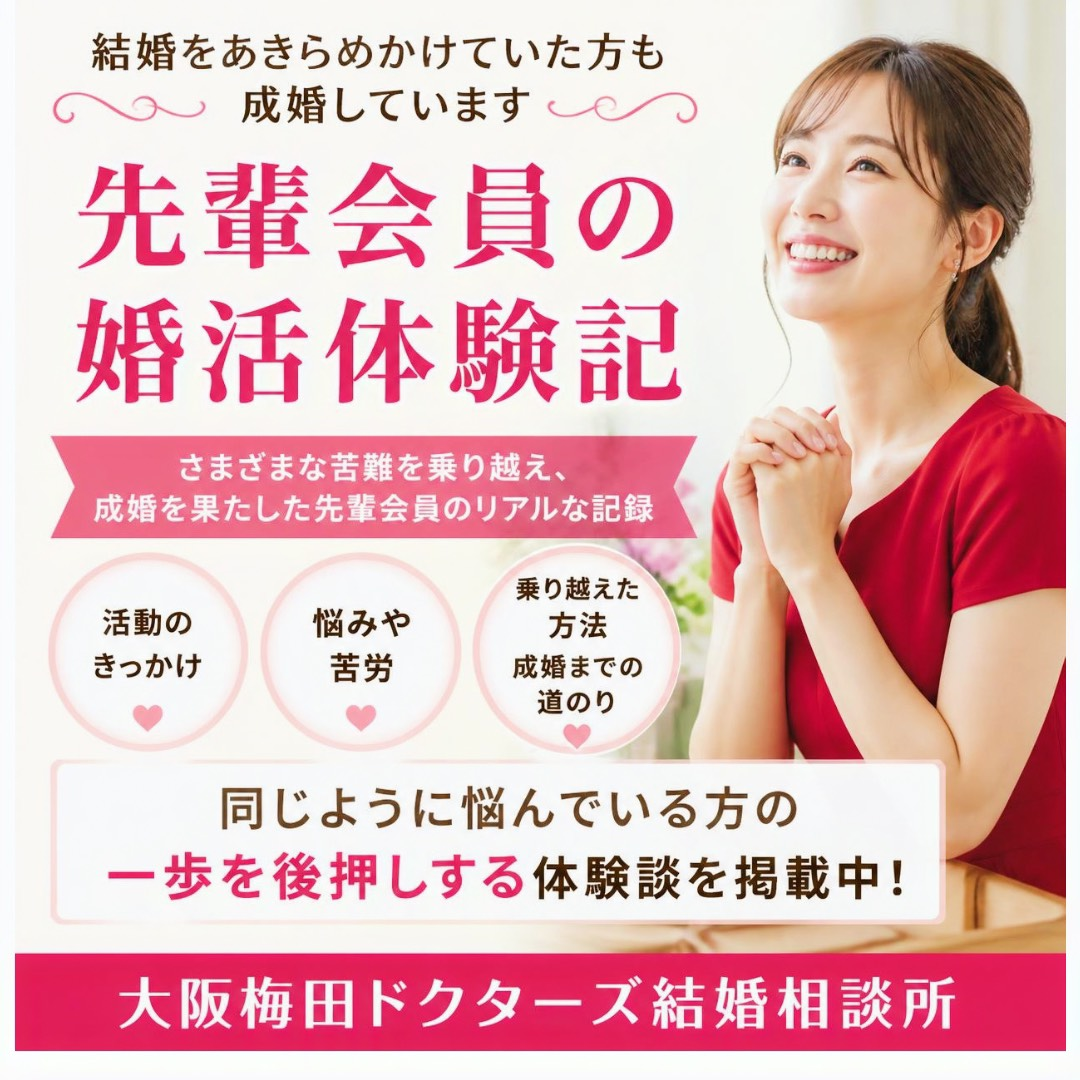
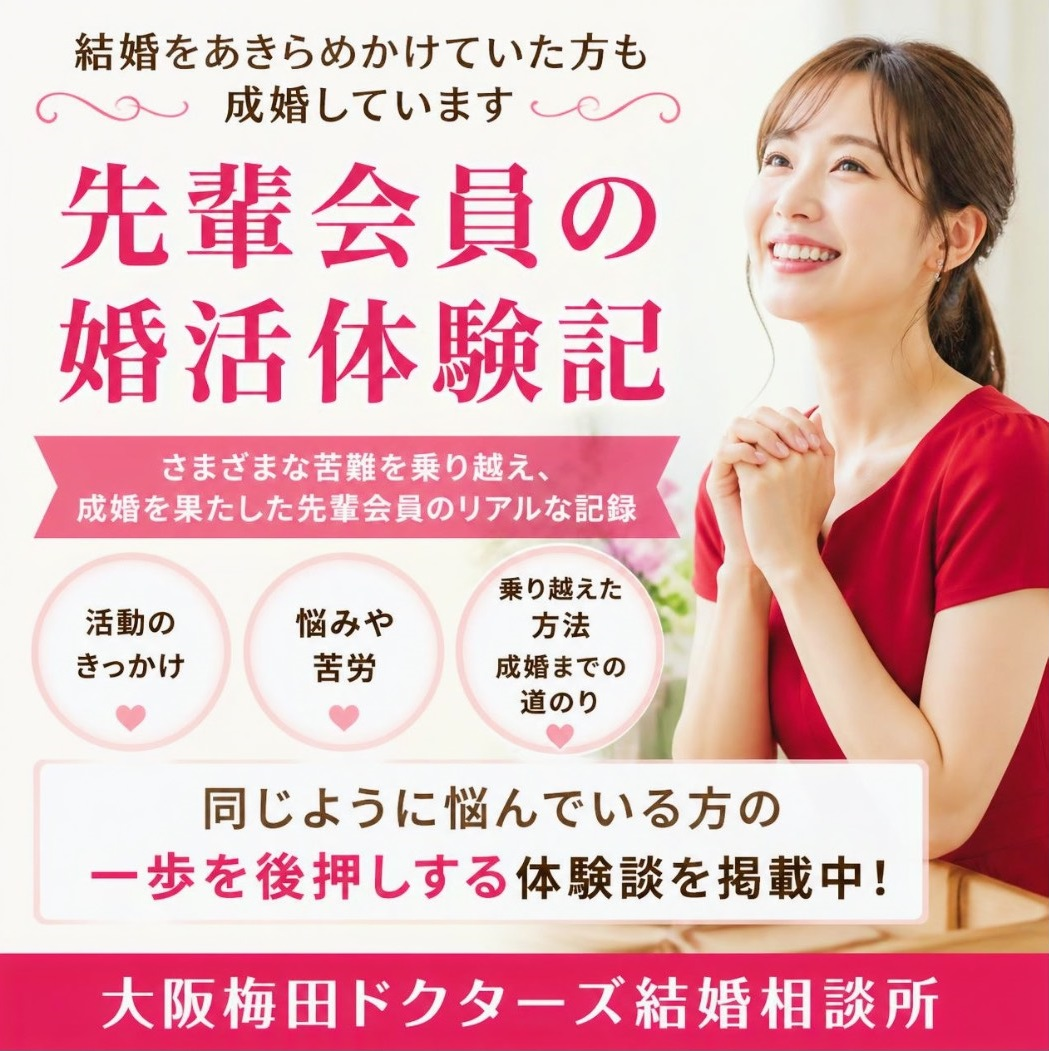
added new promo pictures to the landing page

diff --git a/app/page.tsx b/app/page.tsx
@@ -81,7 +81,43 @@ export default function Home() {
 運命の相手と1年以内の成婚を目指す大人のための結婚相談所</p>
 
 </section>
+<section className="w-full">
+      <div className="w-full max-w-4xl mx-auto">
+        <div className="relative w-full aspect-[1/1] overflow-hidden rounded-2xl shadow-md">
+          <Image
+            src="/speed-marriage-6-months.jpg"
+            alt="6か月でスピード成婚をめざす男性会員へのメッセージ写真"
+            fill
+            sizes="(max-width: 768px) 100vw, 800px"
+            loading="eager" 
+            fetchPriority="high"
+            priority={true}
+            className="object-cover"
+            placeholder="blur"
[1 lines of base64/hex data omitted]
+          />
+        </div>
+      </div>
+    </section>
 
+     <section className="w-full">
+      <div className="w-full max-w-4xl mx-auto">
+        <div className="relative w-full aspect-[1/1] overflow-hidden rounded-2xl shadow-md">
+          <Image
+            src="/6-month-speed-marriage-message-women.jpg"
+            alt="6か月でスピード成婚をめざす女性会員へのメッセージ写真"
+            fill
+            sizes="(max-width: 768px) 100vw, 800px"
+            loading="eager" 
+            fetchPriority="high"
+            priority={true}
+            className="object-cover"
+            placeholder="blur"
[1 lines of base64/hex data omitted]
+          />
+        </div>
+      </div>
+    </section>
     <Gallery
       interval={3000}
       slides={[
@@ -108,8 +144,37 @@ export default function Home() {
         },
       ]}
     />
-
-
+<section className="w-full">
+  <div className="w-full max-w-4xl mx-auto">
+    <figure className="m-0 bg-white rounded-2xl shadow-md border border-gray-100 overflow-hidden">
+      <div className="relative w-full aspect-[1/1] overflow-hidden">
+        <Image
+          src="/umeda-marriage-support.jpg"
+          alt="現役女性医師と男性ベテランカウンセラーがサポートする大阪梅田ドクターズ結婚相談所"
+          fill
+          sizes="(max-width: 768px) 100vw, 800px"
+          priority={true}
+          className="object-cover"
+          placeholder="blur"
[1 lines of base64/hex data omitted]
+        />
+      </div>
+      <figcaption className="p-5 sm:p-6 text-center text-gray-800 space-y-2">
+        <p className="font-semibold text-base sm:text-lg text-rose-600 tracking-wide">
+          大阪梅田でハイクラス婚活とスピード成婚をめざす。
+        </p>
+        <p className="font-bold text-gray-900 text-sm sm:text-base">
+          現役女医医師と男性ベテラン仲人のダブルサポート！
+        </p>
+        <p className="text-xs sm:text-sm text-gray-600 leading-relaxed pt-1">
+          医学と心理学、20年の仲人経験を生かした唯一無二の結婚相談所
+          <span className="block mt-1 font-bold text-gray-800">【大阪梅田ドクターズ結婚相談所】</span>
+        </p>
+      </figcaption>
+    </figure>
+  </div>
+</section>
+   
 
       {/* --- STRENGTHS SECTION --- */}
 {/* --- STRENGTHS SECTION --- */}
@@ -322,8 +387,8 @@ export default function Home() {
     </span>
 
     <h2 className="mt-3 text-3xl md:text-5xl font-black text-gray-900 leading-tight">
-      梅田エリアにおける婚活の現実と<br />
-      大阪梅田ドクターズ結婚相談所のアプローチ
+      大阪梅田で、女性医師が<br />あなたのカウンセラーになります。<br />
+      医学と心理学に基く特別な結婚相談所。
     </h2>
 
     <div className="mt-5 h-1 w-16 rounded-full bg-rose-400 mx-auto" />
@@ -332,14 +397,14 @@ export default function Home() {
   {/* Body */}
   <div className="max-w-5xl mx-auto text-gray-700 leading-relaxed text-base md:text-lg">
     
-    {/* Floating Image */}
-    <div className="md:float-right md:ml-8 mb-4 md:mb-2 w-full md:w-80">
+    {/* Full Width Image wrapper */}
+    <div className="-mx-4 md:mx-0 md:float-right md:ml-8 mb-6 md:mb-2 w-[calc(100%+2rem)] md:w-80">
       <Image
-        src="/doctorSuit.jpg"
-        alt="大阪梅田のクリニックで首に聴診器をかけ笑顔でデスクに座るハイクラス婚活監修の女医"
+        src="/doctor-led-marriage-agency-counseling.jpg"
+        alt="笑顔の現役内科女医がカウンセラーとして結婚相談所でサポートするイメージ"
         width={500}
         height={650}
-        className="rounded-2xl object-cover shadow-md border border-gray-100"
+        className="w-full h-auto rounded-none md:rounded-2xl object-cover shadow-md border-y md:border border-gray-100"
       />
     </div>
 
@@ -375,6 +440,65 @@ export default function Home() {
     </div>
 
     <div className="clear-both" />
+  </div>
+</section>
+
+<section className="w-full">
+  <div className="w-full max-w-4xl mx-auto">
+    <figure className="m-0 bg-white rounded-2xl shadow-md border border-gray-100 overflow-hidden">
+      <div className="relative w-full aspect-[1/1] overflow-hidden">
+        <Image
+          src="/lead-doctor.jpg"
+          alt="大阪梅田ドクターズ結婚相談所 代表 加藤"
+          fill
+          sizes="(max-width: 768px) 100vw, 800px"
+          priority={true}
+          className="object-cover"
+          placeholder="blur"
[1 lines of base64/hex data omitted]
+        />
+      </div>
+      <figcaption className="p-5 sm:p-8 text-center text-gray-800 space-y-4">
+        {/* Title */}
+        <h3 className="font-bold text-[24px] sm:text-xl text-rose-600 tracking-wide">
+          大阪梅田ドクターズ結婚相談所の想い。
+        </h3>
+
+        {/* Main Body Content */}
+        <div className="text-[20px]  text-gray-700 leading-relaxed space-y-3 text-left sm:text-center">
+          <p>
+            人生山あり谷あり。結婚も一つの通り道。<br />
+            恋愛や理想のお相手探しは、【自分探しの旅】です。自分がどんな人を好きなのか、どんな風に生きていきたいか。お相手を探しながら、きっと自分を鏡のように見つめるチャンスになるでしょう。
+          </p>
+
+          <p>
+            婚活を通して、何かを求めて自分が頑張って活動したことで、きっと人間的に成熟するはずです。成婚という結果も大切ですが、最終的に役立つのは結婚という箱や外形ではなく、自分がどんな自分なのか？自分がしたいこと、自分が作りたい未来を自分が知り、そのために自分が成長することです。
+          </p>
+
+          <p>
+            そうすれば、自然と素敵な人とのつながりは訪れます。<br />
+            結婚だけではなく社会は全て人とのつながり。今後の人生の全てに役立つ婚活をあなたに。
+          </p>
+
+          <p className="font-medium text-rose-500 py-1 text-center">
+            未来が小さな灯火で照らされますように。
+          </p>
+
+          <p>
+            人生の先輩として、若い方々への【形のない贈り物】をとどける気持ちで大阪梅田ドクターズ結婚相談所は活動しています。
+          </p>
+
+          <p>
+            あなたが年老いた時、また若い方に人生の経験を送り、世界が素敵な贈り物で循環しますように。
+          </p>
+        </div>
+
+        {/* Signature */}
+        <p className="pt-2 font-bold text-sm sm:text-base text-gray-900 text-right sm:text-center">
+          大阪梅田ドクターズ結婚相談所 代表 加藤
+        </p>
+      </figcaption>
+    </figure>
   </div>
 </section>
 <section className="w-full px-4 md:px-8 py-4 bg-white">

diff --git a/app/dating-journeys/page.tsx b/app/dating-journeys/page.tsx
@@ -13,7 +13,7 @@ export default function SuccessStoriesPage() {
     <main className="mx-auto max-w-[500px] bg-[#f0f7fc] px-4 py-1 text-[18px] leading-[1.8] text-[#2b3a4a] box-border">
       {/* Introduction Section */}
       <section className="mb-2 text-center">
-<div className="mb-10 px-2 sm:px-6 py-1 text-slate-900 text-center w-full">
+<div className="mb-4 px-2 sm:px-6 py-1 text-slate-900 text-center w-full">
   <div className="flex flex-col items-center gap-4 w-full">
     <span className="inline-flex items-center gap-1.5 bg-sky-100 text-sky-800 text-xs sm:text-sm font-bold tracking-widest px-4 py-1.5 rounded-full border border-sky-200 shadow-2xs">
       ✨ リアルな成婚ストーリー
@@ -37,8 +37,8 @@ export default function SuccessStoriesPage() {
 
 
 
-              <div className="w-full max-w-4xl mx-auto mb-3">
-                <div className="relative w-full aspect-[1/1] overflow-hidden rounded-2xl shadow-md">
+         
+                <div className="relative w-full aspect-[1/1] overflow-hidden rounded-2xl shadow-md mb-4">
                   <Image
                     src={memberSuccessStories}
                     alt="婚活で出会った女性とドライブデートをしながら成婚をめざすイメージ写真"
@@ -50,7 +50,7 @@ export default function SuccessStoriesPage() {
[1 lines of base64/hex data omitted]
                   />
                 </div>
-              </div>
+             
    
         
         <p className="mb-4 mt-0 text-[18px] text-left">
